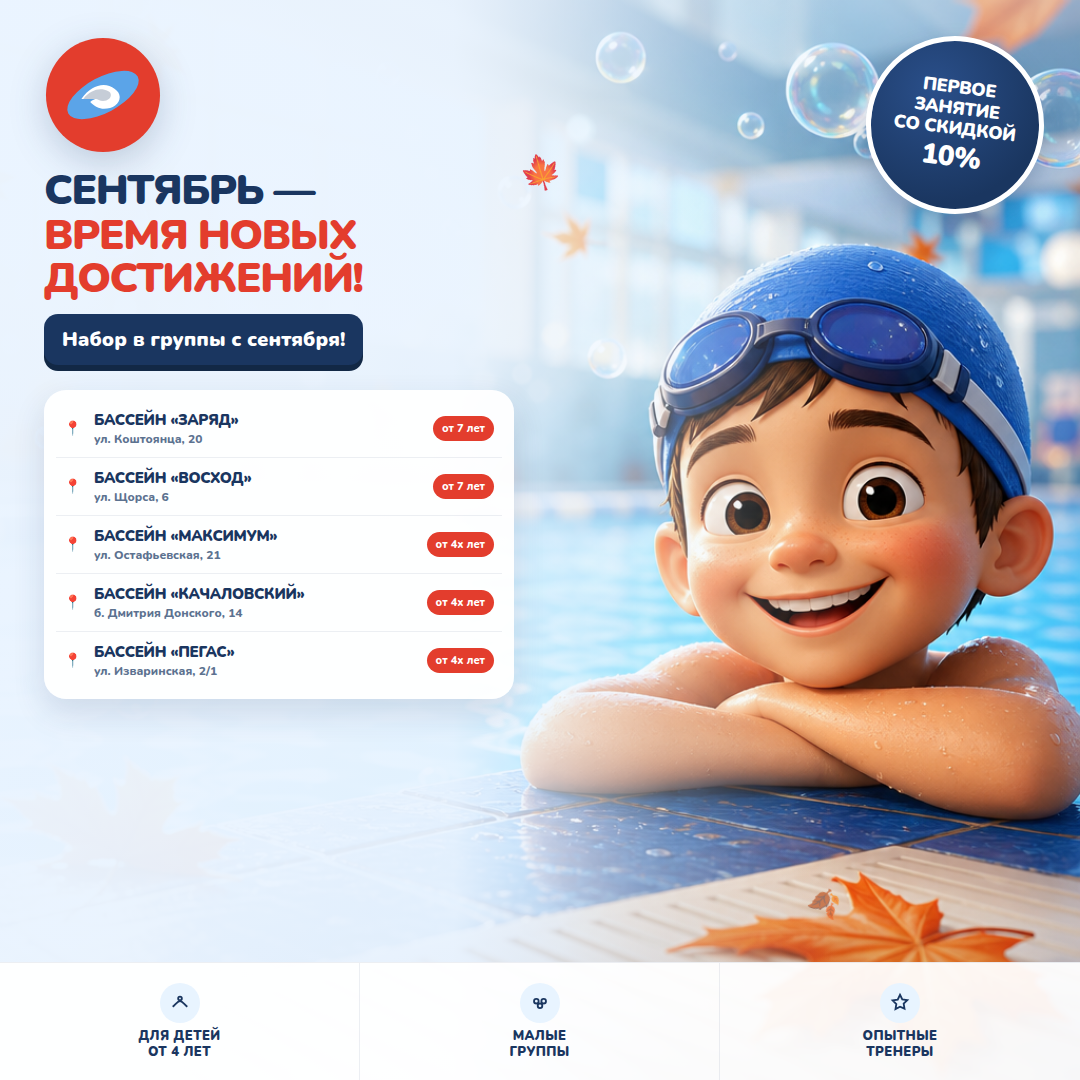
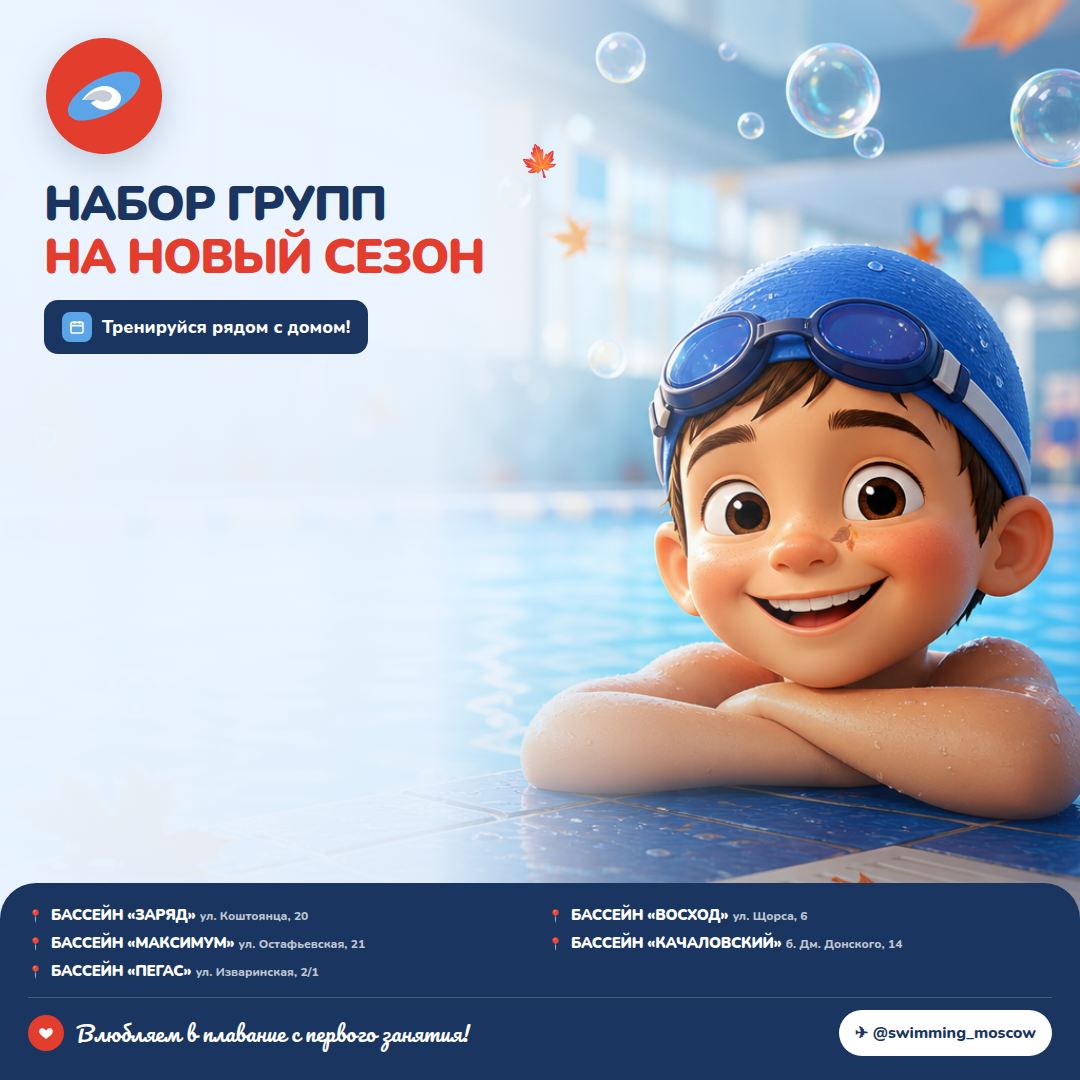
Обновляет TG-пост: без скидки, набор на новый сезон, филиалы внизу
Заголовок и список бассейнов с адресами в подвале, слоган и @swimming_moscow.

diff --git a/assets/swimming-moscow/telegram/html/ref-01-3d-funswim.html b/assets/swimming-moscow/telegram/html/ref-01-3d-funswim.html
@@ -3,8 +3,8 @@
 <head>
   <meta charset="UTF-8" />
   <meta name="viewport" content="width=1080, initial-scale=1" />
-  <title>Swimming Moscow — 3D + филиалы</title>
-  <link href="https://fonts.googleapis.com/css2?family=Montserrat:wght@700;800;900&family=Nunito:wght@800;900&display=swap" rel="stylesheet" />
+  <title>Swimming Moscow — новый сезон</title>
+  <link href="https://fonts.googleapis.com/css2?family=Montserrat:wght@700;800;900&family=Nunito:wght@800;900&family=Pacifico&display=swap" rel="stylesheet" />
   <style>
     * { margin: 0; box-sizing: border-box; }
     html, body { width: 1080px; height: 1080px; overflow: hidden; font-family: Nunito, Montserrat, sans-serif; }
@@ -14,104 +14,85 @@
     }
     .bg {
       position: absolute; inset: 0;
-      background: url("../photos/sm-ref-style-3d-boy.png") 72% 48% / cover no-repeat;
+      background: url("../photos/sm-ref-style-3d-boy.png") 78% 42% / cover no-repeat;
     }
     .shade {
       position: absolute; inset: 0;
       background:
-        linear-gradient(90deg, rgba(234,244,255,.98) 0%, rgba(234,244,255,.94) 42%, rgba(234,244,255,.35) 62%, transparent 78%),
-        linear-gradient(180deg, rgba(234,244,255,.5) 0%, transparent 22%, transparent 78%, rgba(26,54,96,.25) 100%);
+        linear-gradient(90deg, rgba(234,244,255,.98) 0%, rgba(234,244,255,.92) 40%, rgba(234,244,255,.2) 62%, transparent 78%),
+        linear-gradient(180deg, rgba(234,244,255,.35) 0%, transparent 20%, transparent 55%, rgba(26,54,96,.55) 100%);
     }
     .logo-mark {
       position: absolute; left: 44px; top: 36px; z-index: 4;
-      width: 118px; height: 118px;
+      width: 120px; height: 120px;
       filter: drop-shadow(0 10px 18px rgba(26,54,96,.22));
     }
     .logo-mark svg { width: 100%; height: 100%; display: block; }
-    .badge {
-      position: absolute; right: 36px; top: 36px; z-index: 4;
-      width: 178px; height: 178px; border-radius: 50%;
-      background: radial-gradient(circle at 35% 30%, #2a4f8a, #1a3660 72%);
-      color: #fff; display: grid; place-items: center; text-align: center;
-      box-shadow: 0 12px 24px rgba(26,54,96,.28);
-      border: 5px solid #fff;
-      transform: rotate(7deg);
-    }
-    .badge strong {
-      font-size: 18px; line-height: 1.15; font-weight: 900;
-      letter-spacing: -0.02em; padding: 0 14px;
-    }
-    .badge span { display: block; font-size: 28px; margin-top: 2px; }
     .content {
-      position: absolute; left: 44px; top: 170px; z-index: 4; max-width: 500px;
+      position: absolute; left: 44px; top: 180px; z-index: 4; max-width: 520px;
     }
     h1 {
-      font-size: 42px; line-height: 1.02; font-weight: 900;
-      letter-spacing: -0.035em; color: #1a3660;
+      font-size: 48px; line-height: 1.02; font-weight: 900;
+      letter-spacing: -0.035em; color: #1a3660; text-transform: uppercase;
     }
-    h1 em { font-style: normal; color: #e33d2d; display: block; margin-top: 2px; }
-    .chip {
-      display: inline-block; margin-top: 14px;
+    h1 em {
+      font-style: normal; color: #e33d2d; display: block; margin-top: 4px;
+    }
+    .banner {
+      margin-top: 18px; display: inline-flex; align-items: center; gap: 10px;
       background: #1a3660; color: #fff;
-      font-size: 20px; font-weight: 900;
+      font-size: 18px; font-weight: 800;
       padding: 12px 18px; border-radius: 14px;
-      box-shadow: 0 6px 0 #122845;
     }
-    .list {
-      position: absolute; left: 44px; top: 390px; z-index: 4;
-      width: 470px;
-      background: rgba(255,255,255,.94);
-      border-radius: 22px;
-      padding: 10px 12px;
-      box-shadow: 0 14px 32px rgba(26,54,96,.14);
-    }
-    .pool {
-      display: grid;
-      grid-template-columns: 22px 1fr auto;
-      gap: 8px;
-      align-items: center;
-      padding: 10px 8px;
-      border-bottom: 1px solid rgba(26,54,96,.08);
-    }
-    .pool:last-child { border-bottom: 0; }
-    .pin { color: #1a3660; font-size: 14px; line-height: 1; }
-    .pool strong {
-      display: block; font-size: 15px; font-weight: 900;
-      color: #1a3660; letter-spacing: -0.02em; text-transform: uppercase;
-    }
-    .pool span {
-      display: block; font-size: 12px; font-weight: 700;
-      color: #5c7290; margin-top: 1px;
-    }
-    .age {
-      background: #e33d2d; color: #fff;
-      font-size: 11px; font-weight: 800;
-      padding: 5px 9px; border-radius: 999px; white-space: nowrap;
-    }
-    .foot {
-      position: absolute; left: 0; right: 0; bottom: 0; z-index: 4;
-      height: 118px; background: rgba(255,255,255,.94);
-      display: grid; grid-template-columns: repeat(3, 1fr);
-      border-top: 1px solid rgba(26,54,96,.08);
-    }
-    .item {
-      display: flex; flex-direction: column; align-items: center; justify-content: center;
-      gap: 6px; text-align: center; padding: 10px;
-      border-right: 1px solid rgba(26,54,96,.08);
-    }
-    .item:last-child { border-right: 0; }
-    .ico {
-      width: 40px; height: 40px; border-radius: 50%;
-      background: #e8f4ff; color: #1a3660;
+    .banner i {
+      width: 30px; height: 30px; border-radius: 8px; background: #5ba4e8;
       display: grid; place-items: center;
     }
-    .item b {
-      font-size: 13px; font-weight: 900; letter-spacing: 0.03em;
-      text-transform: uppercase; color: #1a3660; line-height: 1.2;
+    .bottom {
+      position: absolute; left: 0; right: 0; bottom: 0; z-index: 5;
+      background: #1a3660;
+      border-radius: 36px 36px 0 0;
+      padding: 22px 28px 24px;
+      color: #fff;
     }
-    .leaf { position: absolute; z-index: 2; font-size: 34px; opacity: .8; }
-    .l1 { left: 520px; top: 150px; transform: rotate(-16deg); }
-    .l2 { right: 240px; bottom: 160px; transform: rotate(18deg); font-size: 26px; }
+    .pools {
+      display: grid;
+      grid-template-columns: 1fr 1fr;
+      gap: 8px 16px;
+      margin-bottom: 16px;
+    }
+    .pool {
+      display: flex; align-items: baseline; gap: 8px;
+      font-size: 15px; font-weight: 800;
+    }
+    .pool b { color: #fff; text-transform: uppercase; letter-spacing: -0.02em; }
+    .pool span { color: rgba(255,255,255,.72); font-size: 12px; font-weight: 700; }
+    .pool i {
+      color: #5ba4e8; font-style: normal; font-size: 12px;
+    }
+    .foot-row {
+      display: flex; align-items: center; justify-content: space-between;
+      gap: 16px; padding-top: 12px;
+      border-top: 1px solid rgba(255,255,255,.18);
+    }
+    .slogan {
+      font-family: Pacifico, cursive;
+      font-size: 22px; line-height: 1.2;
+      display: flex; align-items: center; gap: 12px;
+    }
+    .heart {
+      width: 36px; height: 36px; border-radius: 50%; background: #e33d2d;
+      display: grid; place-items: center; flex: none;
+    }
+    .tg {
+      display: inline-flex; align-items: center; gap: 8px;
+      background: #fff; color: #1a3660;
+      padding: 12px 16px; border-radius: 999px;
+      font-size: 16px; font-weight: 800; flex: none;
+    }
+    .leaf { position: absolute; z-index: 2; font-size: 32px; opacity: .8; }
+    .l1 { left: 520px; top: 140px; transform: rotate(-16deg); }
+    .l2 { right: 220px; top: 520px; transform: rotate(18deg); font-size: 24px; }
   </style>
 </head>
 <body>
@@ -121,7 +102,6 @@
     <div class="leaf l1" aria-hidden="true">🍁</div>
     <div class="leaf l2" aria-hidden="true">🍂</div>
 
-    <!-- Только красный круг логотипа -->
     <div class="logo-mark" aria-label="Swimming Moscow">
       <svg viewBox="0 0 120 120" fill="none" xmlns="http://www.w3.org/2000/svg">
         <circle cx="60" cy="60" r="58" fill="#E33D2D"/>
@@ -131,53 +111,28 @@
       </svg>
     </div>
 
-    <div class="badge"><strong>ПЕРВОЕ ЗАНЯТИЕ<br/>СО СКИДКОЙ<br/><span>10%</span></strong></div>
-
     <div class="content">
-      <h1>СЕНТЯБРЬ —<em>ВРЕМЯ НОВЫХ<br/>ДОСТИЖЕНИЙ!</em></h1>
-      <div class="chip">Набор в группы с сентября!</div>
-    </div>
-
-    <div class="list">
-      <div class="pool">
-        <div class="pin">📍</div>
-        <div><strong>Бассейн «Заряд»</strong><span>ул. Коштоянца, 20</span></div>
-        <div class="age">от 7 лет</div>
-      </div>
-      <div class="pool">
-        <div class="pin">📍</div>
-        <div><strong>Бассейн «Восход»</strong><span>ул. Щорса, 6</span></div>
-        <div class="age">от 7 лет</div>
-      </div>
-      <div class="pool">
-        <div class="pin">📍</div>
-        <div><strong>Бассейн «Максимум»</strong><span>ул. Остафьевская, 21</span></div>
-        <div class="age">от 4х лет</div>
-      </div>
-      <div class="pool">
-        <div class="pin">📍</div>
-        <div><strong>Бассейн «Качаловский»</strong><span>б. Дмитрия Донского, 14</span></div>
-        <div class="age">от 4х лет</div>
-      </div>
-      <div class="pool">
-        <div class="pin">📍</div>
-        <div><strong>Бассейн «Пегас»</strong><span>ул. Изваринская, 2/1</span></div>
-        <div class="age">от 4х лет</div>
+      <h1>Набор групп<em>на новый сезон</em></h1>
+      <div class="banner">
+        <i><svg width="16" height="16" viewBox="0 0 24 24" fill="none" stroke="#fff" stroke-width="2.4"><rect x="3" y="5" width="18" height="16" rx="2"/><path d="M3 10h18M8 3v4M16 3v4"/></svg></i>
+        Тренируйся рядом с домом!
       </div>
     </div>
 
-    <div class="foot">
-      <div class="item">
-        <div class="ico"><svg width="22" height="22" viewBox="0 0 24 24" fill="none" stroke="currentColor" stroke-width="2"><path d="M4 16c3-2 5-6 8-6s5 4 8 6"/><circle cx="12" cy="7" r="2"/></svg></div>
-        <b>Для детей<br/>от 4 лет</b>
+    <div class="bottom">
+      <div class="pools">
+        <div class="pool"><i>📍</i><div><b>Бассейн «Заряд»</b> <span>ул. Коштоянца, 20</span></div></div>
+        <div class="pool"><i>📍</i><div><b>Бассейн «Восход»</b> <span>ул. Щорса, 6</span></div></div>
+        <div class="pool"><i>📍</i><div><b>Бассейн «Максимум»</b> <span>ул. Остафьевская, 21</span></div></div>
+        <div class="pool"><i>📍</i><div><b>Бассейн «Качаловский»</b> <span>б. Дм. Донского, 14</span></div></div>
+        <div class="pool"><i>📍</i><div><b>Бассейн «Пегас»</b> <span>ул. Изваринская, 2/1</span></div></div>
       </div>
-      <div class="item">
-        <div class="ico"><svg width="22" height="22" viewBox="0 0 24 24" fill="none" stroke="currentColor" stroke-width="2"><circle cx="8" cy="10" r="2.5"/><circle cx="16" cy="10" r="2.5"/><circle cx="12" cy="15" r="2.5"/></svg></div>
-        <b>Малые<br/>группы</b>
-      </div>
-      <div class="item">
-        <div class="ico"><svg width="22" height="22" viewBox="0 0 24 24" fill="none" stroke="currentColor" stroke-width="2"><path d="M12 3l2.5 5 5.5.8-4 3.9.9 5.5L12 16l-4.9 2.6.9-5.5-4-3.9 5.5-.8z"/></svg></div>
-        <b>Опытные<br/>тренеры</b>
+      <div class="foot-row">
+        <div class="slogan">
+          <div class="heart"><svg width="16" height="16" viewBox="0 0 24 24" fill="#fff"><path d="M12 21s-7-4.5-9.5-8.5C.5 9 2.5 5 6.5 5c2 0 3.5 1.2 5.5 3.2C14 6.2 15.5 5 17.5 5c4 0 6 4 4 7.5C19 16.5 12 21 12 21z"/></svg></div>
+          Влюбляем в плавание с первого занятия!
+        </div>
+        <div class="tg">✈ @swimming_moscow</div>
       </div>
     </div>
   </div>
